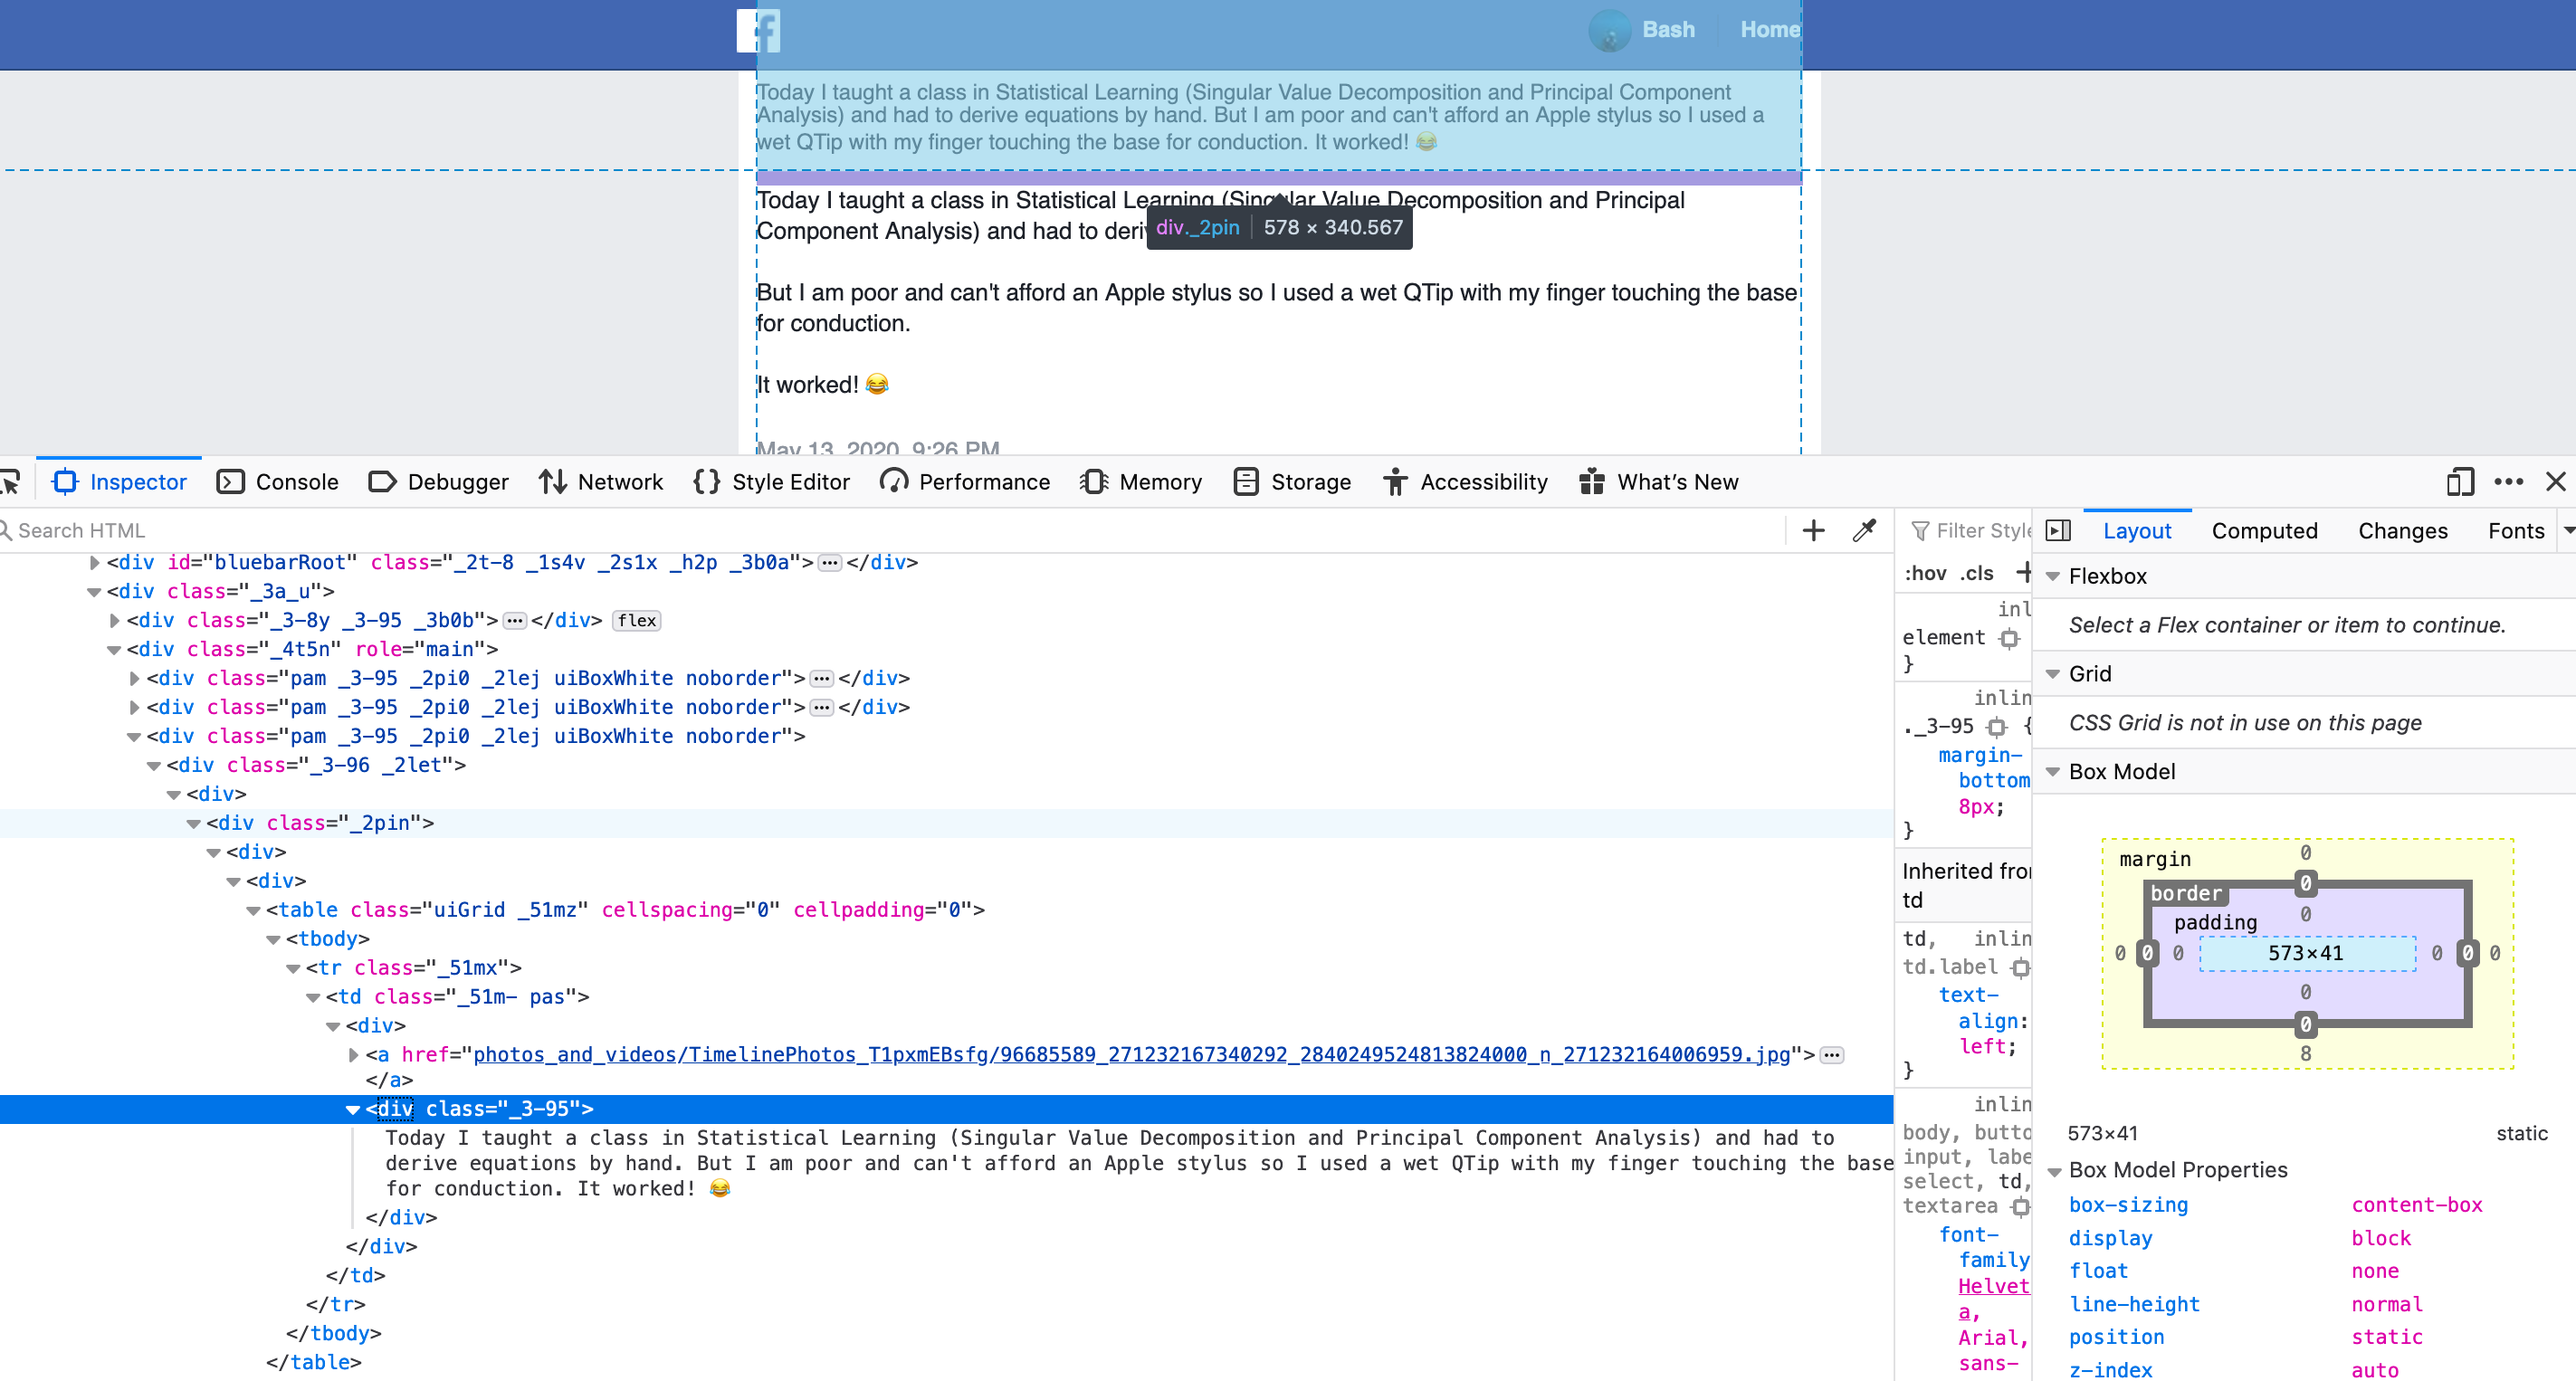
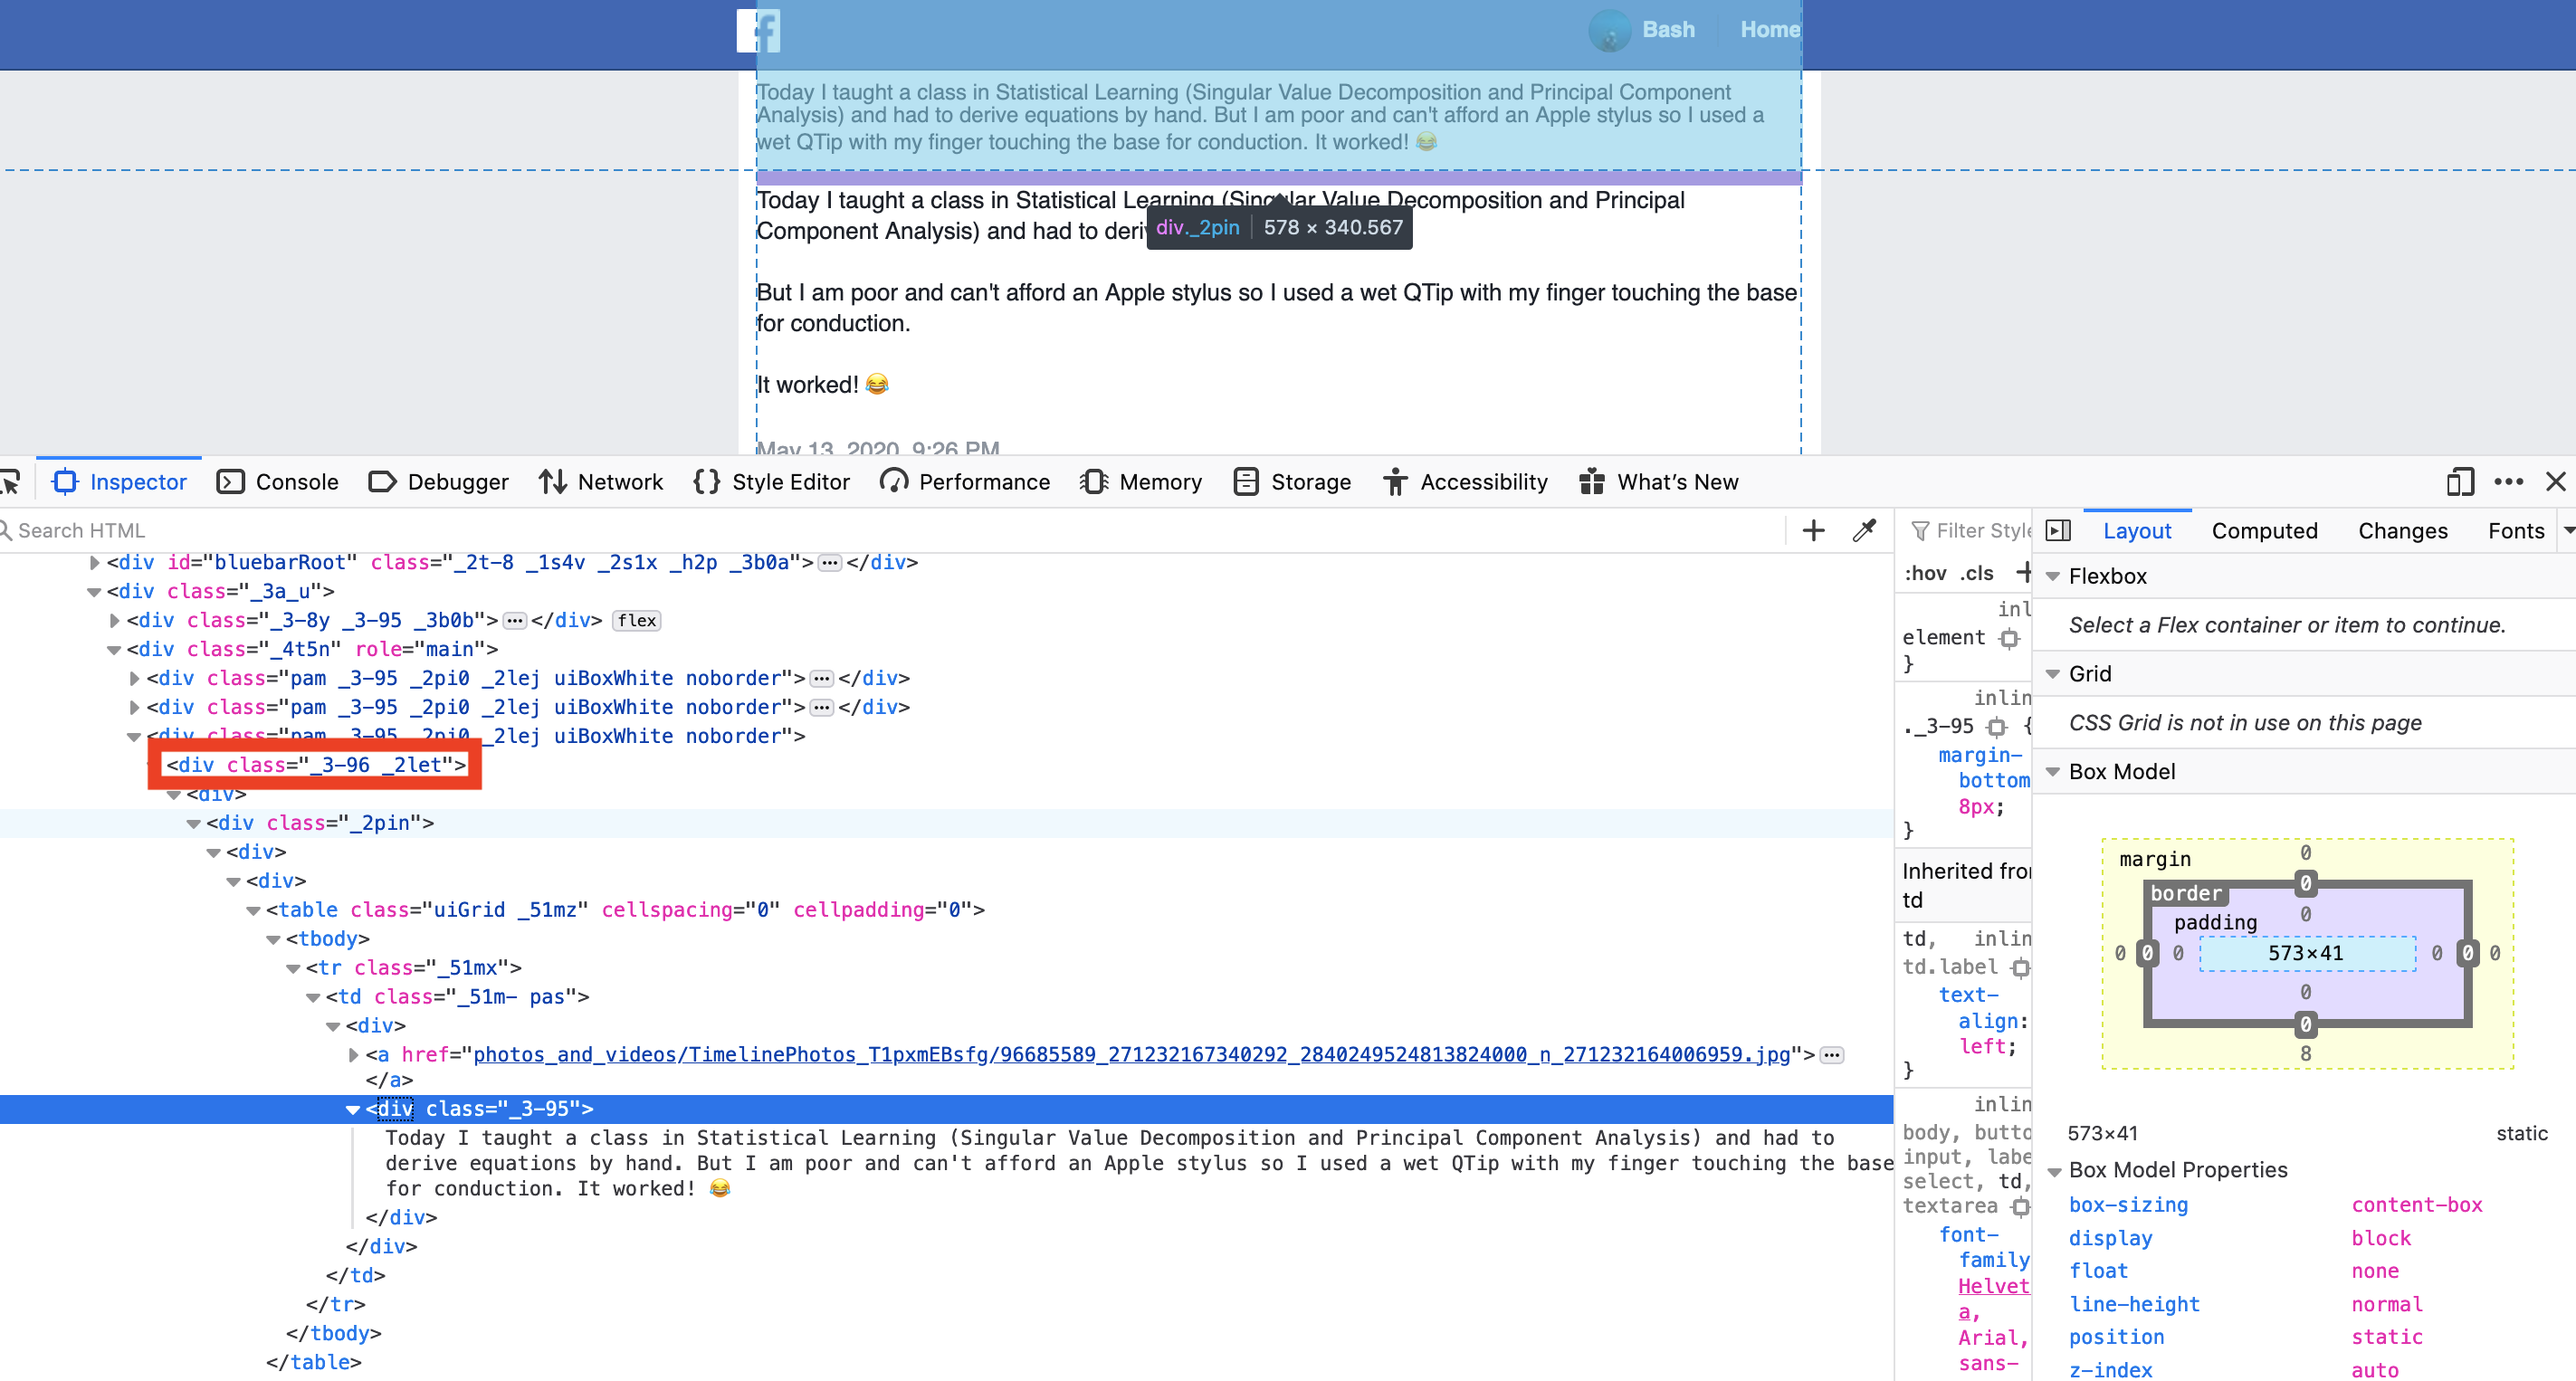
fb (19)

diff --git a/_posts/2020-05-20-fb-bs.md b/_posts/2020-05-20-fb-bs.md
@@ -69,14 +69,19 @@ To get the text of posts that I posted, let us check first the source code using
 {: refdef}
 
 
-Navigate along and do some pattern recognition to identify the correct class to filter. My guess would be 
+Navigate along and do some pattern recognition to identify the correct class to filter. My guess would be `_2pin`.
 
+{:refdef: style="text-align: center;"}
+<img src="{{ site.url }}{{ site.baseurl }}/images/fb/fb_5.png" alt="filter" class="center">
+{: refdef}
 
 
 
 
 
 we can clean out noise in the string. Technically we call them `stop words`.
+
+
 
 
 
